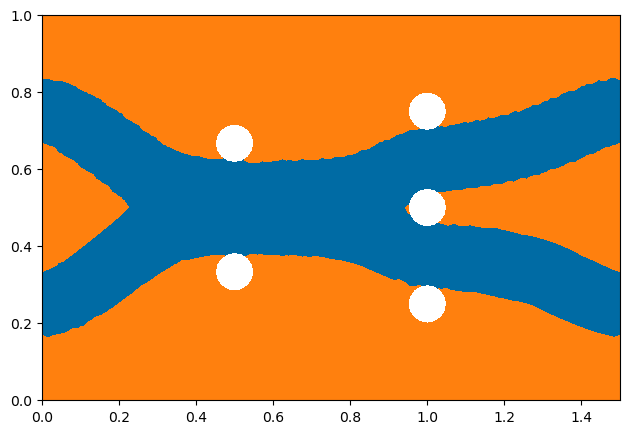
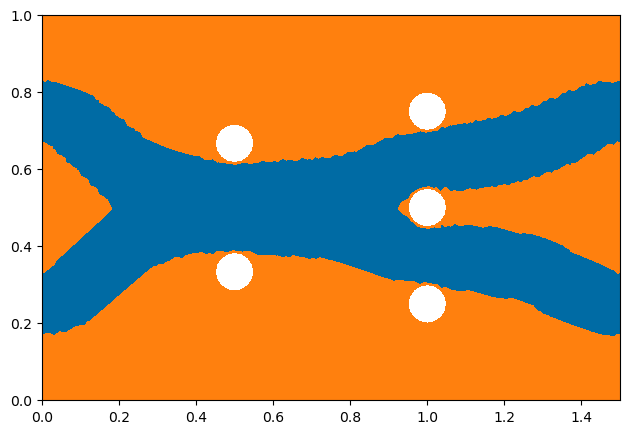
Changes to the deflation test

diff --git a/demos/documented/topology_optimization/deflation/demo_deflation.py b/demos/documented/topology_optimization/deflation/demo_deflation.py
@@ -96,7 +96,7 @@ CG1 = FunctionSpace(mesh, "CG", 1)
 DG0 = FunctionSpace(mesh, "DG", 0)
 
 alpha_in = 2.5 / (100 ** 2)
-alpha_out = 2.5 / (0.005 ** 2)
+alpha_out = 2.5 / (0.01 ** 2)
 alpha = Function(DG0)
 
 psi = Function(CG1)
@@ -207,7 +207,7 @@ dtop = cashocs.DeflatedTopologyOptimizationProblem(
 # +
 delta = 1000000.
 gamma = 0.7
-dtop.solve(tol=1e-6, it_deflation=5, gamma=gamma, delta=delta, inner_rtol=0., inner_atol=0., angle_tol=1.0)
+dtop.solve(tol=1e-6, it_deflation=4, gamma=gamma, delta=delta, inner_rtol=0., inner_atol=0., angle_tol=1.0)
 # -
 
 # Here, `it_deflation` denotes the number of iterations of the deflation procedure, and
